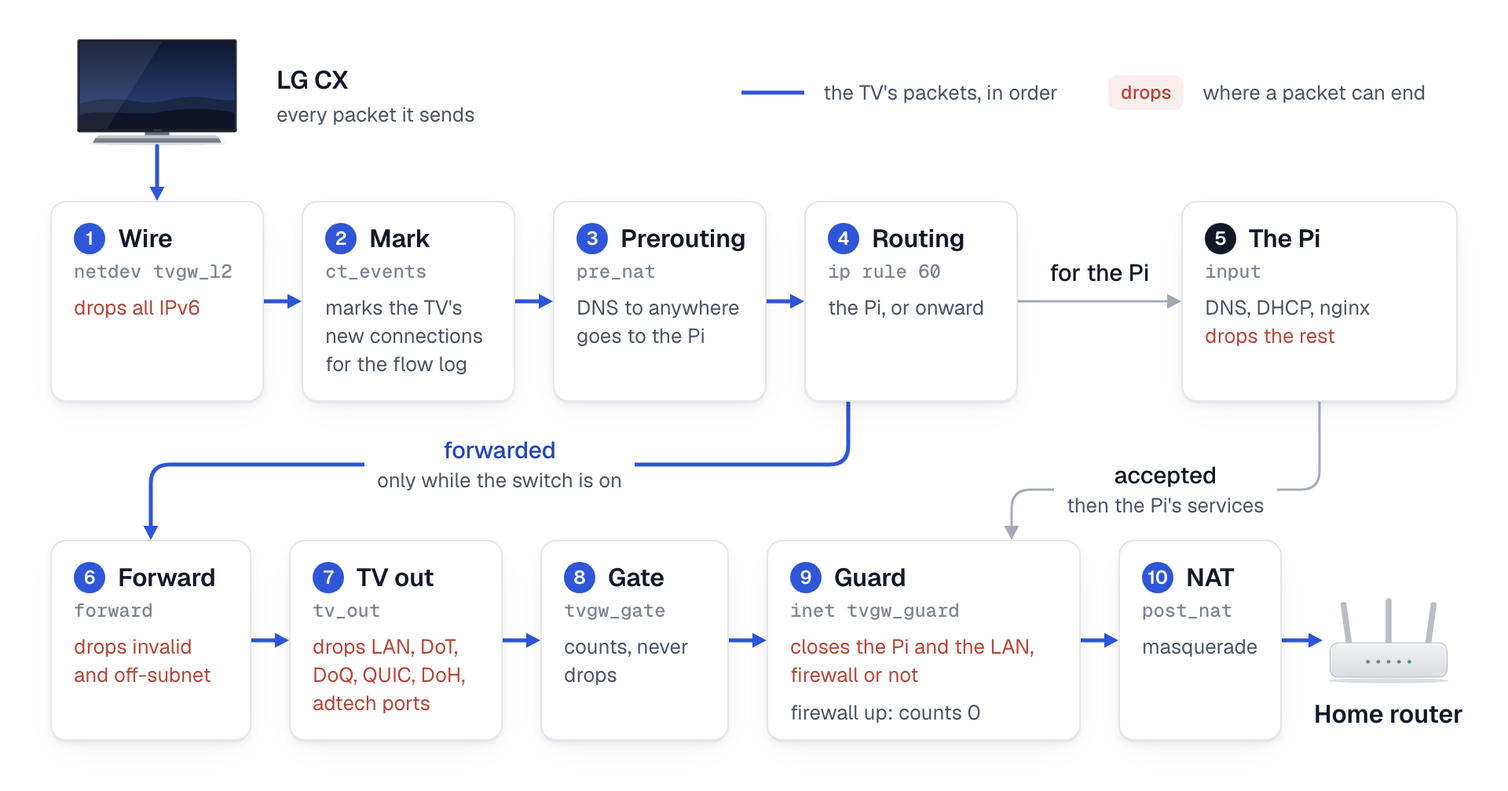
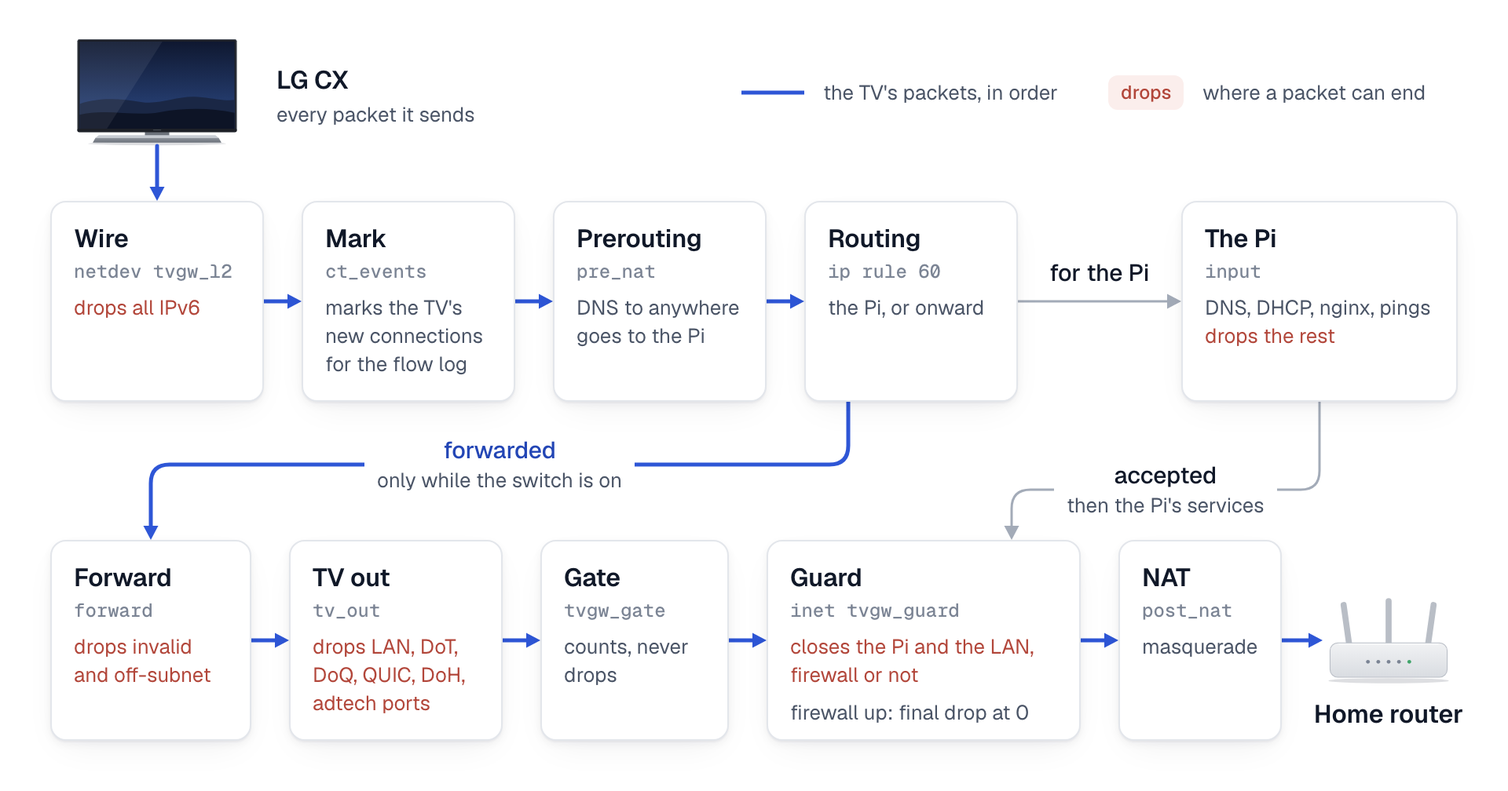
Figures: the queue waits for the second model, the guard's final drop, and the review's minors
Figure 7 and its alt text: a queued block meets the vetting, the gates and the
second model at its turn; the second model is never asked before. The untested
path says the no-baseline case ends at the trial's end, not after 14 days.
Figure 4: the Pi accepts pings, only the guard's final drop stays at 0 while
the firewall is loaded, and the stages lose their numbers so the page's list
can number chains the figure leaves out. Figure 6: the sampler runs inside
verify --record, and the store is back on the grid. Figure 17 names the
co-tenant services by the setting, not by a list. Figure 18's captions no
longer read as a complete list of verdicts; STYLE.md records the hour-strip
exception to the grid. data-model.md: judge_shadow joins auto_rules on rule
and added_t, and auto_rules is keyed by rule alone.

diff --git a/docs/diagrams/fig-4-packet-path.html b/docs/diagrams/fig-4-packet-path.html
@@ -727,36 +727,36 @@
 
     <!-- Row 1: to the routing decision (cards y 128-256) -->
     <div class="card stage-card" data-id="l2" style="left:32px;top:128px;width:136px;height:128px">
-      <div class="title"><span class="step accent">1</span>Wire</div><div class="id">netdev tvgw_l2</div><div class="drop">drops all IPv6</div>
+      <div class="title">Wire</div><div class="id">netdev tvgw_l2</div><div class="drop">drops all IPv6</div>
     </div>
     <div class="card stage-card" data-id="mark" style="left:192px;top:128px;width:136px;height:128px">
-      <div class="title"><span class="step accent">2</span>Mark</div><div class="id">ct_events</div><div class="pass">marks the TV's new connections for the flow log</div>
+      <div class="title">Mark</div><div class="id">ct_events</div><div class="pass">marks the TV's new connections for the flow log</div>
     </div>
     <div class="card stage-card" data-id="pre" style="left:352px;top:128px;width:136px;height:128px">
-      <div class="title"><span class="step accent">3</span>Prerouting</div><div class="id">pre_nat</div><div class="pass">DNS to anywhere goes to the Pi</div>
+      <div class="title">Prerouting</div><div class="id">pre_nat</div><div class="pass">DNS to anywhere goes to the Pi</div>
     </div>
     <div class="card stage-card" data-id="route" style="left:512px;top:128px;width:136px;height:128px">
-      <div class="title"><span class="step accent">4</span>Routing</div><div class="id">ip rule 60</div><div class="pass">the Pi, or onward</div>
+      <div class="title">Routing</div><div class="id">ip rule 60</div><div class="pass">the Pi, or onward</div>
     </div>
     <div class="card stage-card" data-id="input" style="left:752px;top:128px;width:176px;height:128px">
-      <div class="title"><span class="step">5</span>The Pi</div><div class="id">input</div><div class="pass">DNS, DHCP, nginx</div><div class="drop" style="margin-top:0">drops the rest</div>
+      <div class="title">The Pi</div><div class="id">input</div><div class="pass">DNS, DHCP, nginx, pings</div><div class="drop" style="margin-top:0">drops the rest</div>
     </div>
 
     <!-- Row 2: forwarded (cards y 344-472) -->
     <div class="card stage-card" data-id="fwd" style="left:32px;top:344px;width:128px;height:128px">
-      <div class="title"><span class="step accent">6</span>Forward</div><div class="id">forward</div><div class="drop">drops invalid and off-subnet</div>
+      <div class="title">Forward</div><div class="id">forward</div><div class="drop">drops invalid and off-subnet</div>
     </div>
     <div class="card stage-card" data-id="out" style="left:184px;top:344px;width:136px;height:128px">
-      <div class="title"><span class="step accent">7</span>TV out</div><div class="id">tv_out</div><div class="drop">drops LAN, DoT, DoQ, QUIC, DoH, adtech ports</div>
+      <div class="title">TV out</div><div class="id">tv_out</div><div class="drop">drops LAN, DoT, DoQ, QUIC, DoH, adtech ports</div>
     </div>
     <div class="card stage-card" data-id="gate" style="left:344px;top:344px;width:120px;height:128px">
-      <div class="title"><span class="step accent">8</span>Gate</div><div class="id">tvgw_gate</div><div class="pass">counts, never drops</div>
+      <div class="title">Gate</div><div class="id">tvgw_gate</div><div class="pass">counts, never drops</div>
     </div>
     <div class="card stage-card" data-id="guard" style="left:488px;top:344px;width:200px;height:128px">
-      <div class="title"><span class="step accent">9</span>Guard</div><div class="id">inet tvgw_guard</div><div class="drop">closes the Pi and the LAN, firewall or not</div><div class="pass">firewall up: counts 0</div>
+      <div class="title">Guard</div><div class="id">inet tvgw_guard</div><div class="drop">closes the Pi and the LAN, firewall or not</div><div class="pass">firewall up: final drop at 0</div>
     </div>
     <div class="card stage-card" data-id="nat" style="left:712px;top:344px;width:104px;height:128px">
-      <div class="title"><span class="step accent">10</span>NAT</div><div class="id">post_nat</div><div class="pass">masquerade</div>
+      <div class="title">NAT</div><div class="id">post_nat</div><div class="pass">masquerade</div>
     </div>
     <svg class="art" data-id="router" viewBox="0 0 160 104" style="left:840px;top:380px;width:88px;height:57px"><use href="#art-router"/></svg>
     <div class="art-caption" style="left:812px;top:444px;width:144px"><div class="title">Home router</div></div>
@@ -774,7 +774,7 @@
     <div class="wire accent" data-from="guard@r" data-to="nat@l"></div>
     <div class="wire accent" data-from="nat@r" data-to="@842,408"></div>
   </div>
-  <figcaption class="fig-caption"><b>The packet path.</b> A packet from the TV meets the firewall in this order. Its new connections are marked for the flow log and DNS is redirected before routing; a packet for anywhere else is forwarded only while the switch is on, and each stage that can end it says what it drops. The guard runs after the firewall on both paths and keeps the Pi and the home LAN closed if the firewall is gone; it refuses nothing the firewall lets through, so while the firewall is loaded its counters on these paths stay at 0.</figcaption>
+  <figcaption class="fig-caption"><b>The packet path.</b> A packet from the TV meets the firewall in this order. Its new connections are marked for the flow log and DNS is redirected before routing; a packet for anywhere else is forwarded only while the switch is on, and each stage that can end it says what it drops. The guard runs after the firewall on both paths and keeps the Pi and the home LAN closed if the firewall is gone; it refuses nothing the firewall lets through, so while the firewall is loaded its final drop stays at 0.</figcaption>
 </figure>
 <!-- /figure -->
 <!-- inline:wires.js -->

diff --git a/docs/diagrams/fig-6-capture-to-store.html b/docs/diagrams/fig-6-capture-to-store.html
@@ -733,7 +733,7 @@
       <div class="title" style="margin-top:12px">tvgw ingest</div>
       <div class="sub">every hour, one source at a time</div>
     </div>
-    <div class="card stack obs" data-id="store" style="left:808px;top:292px;width:120px;height:80px">
+    <div class="card stack obs" data-id="store" style="left:808px;top:296px;width:120px;height:80px">
       <div class="head"><div class="glyph"><svg class="i"><use href="#i-database"/></svg></div><div class="title">Store</div></div>
       <div class="id" style="margin-top:6px">tvgw.db</div>
     </div>
@@ -742,10 +742,10 @@
       <div class="title" style="margin-top:8px">Verifier</div>
       <div class="id" style="margin-top:6px">every 10 min</div>
     </div>
-    <div class="card stack gate" data-id="sampler" style="left:808px;top:496px;width:120px;height:104px">
+    <div class="card stack gate" data-id="sampler" style="left:808px;top:472px;width:120px;height:128px">
       <div class="head"><div class="glyph"><svg class="i"><use href="#i-timer"/></svg></div></div>
       <div class="title" style="margin-top:8px">Sampler</div>
-      <div class="id" style="margin-top:6px">every 10 min</div>
+      <div class="id" style="margin-top:6px">in verify<br>--record</div>
     </div>
 
     <div class="wire accent" data-from="tv@r" data-to="r1@l" data-mid="184" data-label-seg="2" data-label-at="above">frames</div>
@@ -765,7 +765,7 @@
     <div class="wire strong" data-from="verify@b" data-to="store@t" data-align="from" data-label-at="on">verdict<span class="sub">counters</span></div>
     <div class="wire strong" data-from="sampler@t" data-to="store@b" data-align="from" data-label-at="on"><span class="mono">gw_samples</span></div>
   </div>
-  <figcaption class="fig-caption"><b>From capture to store.</b> Six recorders each write down part of what the TV does, the gateway's shell scripts add a line to the change spool for each apply, link event and deploy, and <code>tvgw ingest</code> reads all of them into the store every hour. Only <code>tvgw verify --record</code> writes to the store itself, every 10 minutes: the firewall's verdict and counters, and a sample of the gateway's own counters.</figcaption>
+  <figcaption class="fig-caption"><b>From capture to store.</b> Six recorders each write down part of what the TV does, the gateway's shell scripts add a line to the change spool for each apply, link event and deploy, and <code>tvgw ingest</code> reads all of them into the store every hour. Of these, only <code>tvgw verify --record</code> writes to the store itself, every 10 minutes: the firewall's verdict and counters, and a sample of the gateway's own counters.</figcaption>
 </figure>
 <!-- /figure -->
 <!-- inline:wires.js -->

diff --git a/docs/diagrams/fig-7-rule-life.html b/docs/diagrams/fig-7-rule-life.html
@@ -736,11 +736,11 @@
 
     <div class="wire strong" data-from="start@r" data-to="prob@l" data-label-at="above">applied</div>
     <div class="wire strong" data-from="start@b" data-to="queued@l" data-label-at="right">a trial runs</div>
-    <div class="wire strong" data-from="queued@t" data-to="prob@l:16" data-label-at="right" data-label-seg="0">its turn<span class="sub">gates again</span></div>
+    <div class="wire strong" data-from="queued@t" data-to="prob@l:16" data-label-at="right" data-label-seg="0">its turn<span class="sub">gates, then the second model</span></div>
     <div class="wire strong" data-from="prob@t:-48" data-to="prob@t:48" data-via="344,96 440,96" data-label-at="above" data-label-seg="1">NODATA<span class="sub">a day more, up to 14 days</span></div>
     <div class="wire strong" data-from="prob@r" data-to="passed@l" data-mid="584" data-label-seg="2" data-label-at="above">2 demand hours<span class="sub">each side, streaming held</span></div>
     <div class="wire strong" data-from="prob@r" data-to="rev@l" data-mid="584" data-label-seg="2" data-label-at="below">taken out<span class="sub">2 low demand hours running,<br>a red line, the canary,<br>the owner</span></div>
-    <div class="wire strong" data-from="prob@b" data-to="untested@t" data-label-at="right">14 days without<span class="sub">the demand hours,<br>or no baseline before it</span></div>
+    <div class="wire strong" data-from="prob@b" data-to="untested@t" data-label-at="right">14 days without<span class="sub">the demand hours, or at<br>the trial's end with no<br>baseline before it</span></div>
     <div class="wire strong" data-from="untested@r" data-to="rev@b" data-label-at="below">taken out<span class="sub">harm, or the owner</span></div>
     <div class="wire strong" data-from="passed@r:0" data-to="rev@r:0" data-via="952,76 952,236" data-label-at="left" data-end="arrow">owner</div>
 

diff --git a/docs/diagrams/fig-18-trial-confounders.html b/docs/diagrams/fig-18-trial-confounders.html
@@ -775,7 +775,7 @@
     <div class="tl-tick" style="left:728px;top:268px">22:00</div>
     <div class="tl-tick" style="left:920px;top:268px">04:00</div>
   </div>
-  <figcaption class="fig-caption"><b>One trial under confounders.</b> The ledger marks the hours a deploy, an AdGuard restart or a PIA reconnect touched as confounded, while a list refresh, class B, leaves its hour clean; judge v2 counts only the clean demand hours and records its verdict in <code>judge_shadow</code>, while the shipped judge still decides and the owner can undo the rule at any time.</figcaption>
+  <figcaption class="fig-caption"><b>One trial under confounders.</b> The ledger marks the hours a deploy, an AdGuard restart or a PIA reconnect touched as confounded, while a list refresh, class B, leaves its hour clean; judge v2 counts only the clean demand hours and records its verdict in <code>judge_shadow</code> (NODATA here; suspended, reverted or passed in other trials), while the shipped judge still decides and the owner can undo the rule at any time.</figcaption>
 </figure>
 <!-- /figure -->
 <!-- inline:wires.js -->

diff --git a/docs/diagrams/fig-17-two-walls.html b/docs/diagrams/fig-17-two-walls.html
@@ -742,7 +742,7 @@
         <div class="glyph" style="background:var(--surface);color:var(--gate-ink)"><svg class="i"><use href="#i-shield-check"/></svg></div>
         <div class="body"><div class="title">Wall 2</div><div class="id" style="margin-top:0">IPAddressDeny=TV_NET</div></div>
       </div>
-      <div class="body" style="padding:12px 16px"><div class="title">Other services</div><div class="sub" style="margin-top:0">Samba, xrdp, AirPlay, avahi, sshd, JupyterHub</div></div>
+      <div class="body" style="padding:12px 16px"><div class="title">Other services</div><div class="sub" style="margin-top:0">the services CO_TENANT_UNITS names</div></div>
     </div>
 
     <svg class="art" data-id="router" viewBox="0 0 160 104" style="left:432px;top:600px;width:88px;height:57px"><use href="#art-router"/></svg>

diff --git a/docs/analyst-and-autonomy.md b/docs/analyst-and-autonomy.md
@@ -233,7 +233,7 @@ The judge's structure is one loop over the watched rules with one call of `autob
 
 <picture>
   <source media="(prefers-color-scheme: dark)" srcset="diagrams/fig-7-rule-life.dark.png">
-  <img alt="A block both models agree on is applied on probation at once, or waits in auto_queue while another rule is on trial and starts on probation at its turn, after the gates run again. On probation, NODATA extends the trial a day at a time up to 14 days; with 2 demand hours on each side of the block and streaming held it passes; it is taken out by 2 low demand hours running, a red line, the canary or the owner; after 14 days without the demand hours, or with no baseline before it, it becomes untested, in place and listed daily, which harm or the owner can still take out. A passed rule can still be taken out by the owner. A timeline below shows the four watches: the canary for 10 minutes, at once or armed until the next hour the TV is awake with an app in front; the hourly judge for a day, extended a day at a time to 14; judge v2, which counts clean demand hours, writes judge_shadow and decides nothing; and the owner at any time." src="diagrams/fig-7-rule-life.light.png" width="960">
+  <img alt="A block that clears the gates goes on probation once the second model agrees, or, while another rule is on trial, waits in auto_queue and at its turn runs the vetting, the gates and the second model before it starts on probation. On probation, NODATA extends the trial a day at a time up to 14 days; with 2 demand hours on each side of the block and streaming held it passes; it is taken out by 2 low demand hours running, a red line, the canary or the owner; after 14 days without the demand hours, or at the trial's end with no baseline before it, it becomes untested, in place and listed daily, which harm or the owner can still take out. A passed rule can still be taken out by the owner. A timeline below shows the four watches: the canary for 10 minutes, at once or armed until the next hour the TV is awake with an app in front; the hourly judge for a day, extended a day at a time to 14; judge v2, which counts clean demand hours, writes judge_shadow and decides nothing; and the owner at any time." src="diagrams/fig-7-rule-life.light.png" width="960">
 </picture>
 
 *One rule is on trial at a time and passes only on viewing it did not harm; without viewing it stays untested, three watches can take it out, and judge v2 only records.*
@@ -300,7 +300,7 @@ Judging a rule excuses the rule's own `machine_rule_add` and an AdGuard restart 
   <img alt="One 24-hour trial, from 04:00 to 04:00, as the hour classifier sees it: most hours are off, three have no demand (the launcher, an HDMI input), four are clean demand hours and four are confounded. The ledger above the hours marks a deploy at 08:05, an AdGuard restart at 19:55 that confounds both hours it touches, a list refresh at 21:20 that is class B and leaves its hour clean, and a PIA reconnect at 22:10. Judge v2 counts only the four clean demand hours and writes judge_shadow every hour; with 4 of the 6 it needs its verdict at the end is NODATA, where 6 would be passed and two low demand hours running with one confounded would be suspended. Above it the shipped judge still decides on all 8 demand hours, and above both the owner can undo the rule at any time." src="diagrams/fig-18-trial-confounders.light.png" width="960">
 </picture>
 
-*The ledger marks the hours a class-A change touched, judge v2 counts only the clean demand hours and records NODATA, suspended or passed, and the shipped judge still decides.*
+*The ledger marks the hours a class-A change touched, judge v2 counts only the clean demand hours and records its verdict (NODATA here; suspended, reverted or passed in other trials), and the shipped judge still decides.*
 
 ## The TV's state and the 26-hour probe
 

diff --git a/docs/architecture.md b/docs/architecture.md
@@ -44,7 +44,7 @@ The `output` chain also stops the Pi's own broadcast and multicast chatter into 
 
 <picture>
   <source media="(prefers-color-scheme: dark)" srcset="diagrams/fig-4-packet-path.dark.png">
-  <img alt="A packet from the TV meets ten stages in order: the wire table drops IPv6; ct_events marks the TV's new connections for the flow log and drops nothing; prerouting sends DNS for anywhere to the Pi; routing chooses the Pi or onward. For the Pi, the input chain allows DNS, DHCP and nginx and drops the rest, and what it accepts passes the guard on its way to the Pi's services. Onward, only while the forwarding switch is on, the forward chain drops invalid and off-subnet packets, tv_out drops the home LAN, DoT, DoQ, QUIC, known DoH and LG's ad-tech ports, the gate counts, the guard keeps the Pi and the home LAN closed whether or not the firewall is loaded and counts 0 while it is, and post_nat masquerades the packet out to the home router." src="diagrams/fig-4-packet-path.light.png" width="960">
+  <img alt="A packet from the TV meets these stages in order: the wire table drops IPv6; ct_events marks the TV's new connections for the flow log and drops nothing; prerouting sends DNS for anywhere to the Pi; routing chooses the Pi or onward. For the Pi, the input chain allows DNS, DHCP, nginx and pings and drops the rest, and what it accepts passes the guard on its way to the Pi's services. Onward, only while the forwarding switch is on, the forward chain drops invalid and off-subnet packets, tv_out drops the home LAN, DoT, DoQ, QUIC, known DoH and LG's ad-tech ports, the gate counts, the guard keeps the Pi and the home LAN closed whether or not the firewall is loaded and its last drop counts 0 while it is, and post_nat masquerades the packet out to the home router." src="diagrams/fig-4-packet-path.light.png" width="960">
 </picture>
 
 *New connections are marked and DNS is rewritten before routing, nothing is forwarded until the forwarding switch is on, the gate counts but never drops, and the guard after the firewall refuses nothing the firewall lets through.*
@@ -63,7 +63,7 @@ Linux owns an address for the whole host, not for one interface, so binding a se
 
 <picture>
   <source media="(prefers-color-scheme: dark)" srcset="diagrams/fig-17-two-walls.dark.png">
-  <img alt="Two walls stand between the TV and the Pi. Wall 1 is the guard, inet tvgw_guard, loaded before the network and never unloaded: its input chain lets DHCP, DNS, nginx's 80 and 443 and pings reach the gateway address and drops the rest of the Pi, its forward chain lets nothing through to the home LAN, and its output chain lets only root open the TV's API. Behind it, dnsmasq runs without CAP_NET_ADMIN and CAP_NET_RAW and nginx in a sandbox; every other service (Samba, xrdp, AirPlay, avahi, sshd, JupyterHub) carries wall 2, IPAddressDeny for the TV subnet, so any other port is dropped by both walls." src="diagrams/fig-17-two-walls.light.png" width="960">
+  <img alt="Two walls stand between the TV and the Pi. Wall 1 is the guard, inet tvgw_guard, loaded before the network and never unloaded: its input chain lets DHCP, DNS, nginx's 80 and 443 and pings reach the gateway address and drops the rest of the Pi, its forward chain lets nothing through to the home LAN, and its output chain lets only root open the TV's API. Behind it, dnsmasq runs without CAP_NET_ADMIN and CAP_NET_RAW and nginx in a sandbox; each service CO_TENANT_UNITS names carries wall 2, IPAddressDeny for the TV subnet, so a port of one of those services is dropped by both walls." src="diagrams/fig-17-two-walls.light.png" width="960">
 </picture>
 
 *The TV reaches the gateway's DHCP, DNS and URL filter and nothing else on the Pi, whatever the firewall holds.*

diff --git a/docs/data-model.md b/docs/data-model.md
@@ -469,7 +469,7 @@ No table in the store declares a foreign key, so SQLite enforces none. Every rel
 
 *The context joins are by time as much as by value: the gate's samples, the TV's power readings and its firmware readings each meet the other tables in a window.*
 
-The control and bookkeeping tables join less. `fw_counters` rows share their `t` with the `verify` row of the same run, except the two listings `tvgw-apply` takes either side of a reload, which `verify --record` stores once each under their own times ([`fw_counters`](#fw_counters)). `queries.FW_LINES`, a constant in the code and not a table, maps each comment prefix to the label the brief prints, so `fw_counters.rule` matches it by prefix; renaming a comment in `tvgw-apply` drops its line from the brief ([design decision 13](design-decisions.md#13-counters-not-logs-prove-the-firewall-held)). `auto_rules.name`, `judgments.name`, `decisions.name` and `auto_queue.name` are names the analyst saw, the same names `hosts` holds; `auto_rules.trial_id` joins `decisions.id` and `decisions.trial_id`. <!-- (fin-figures) -->`judge_shadow` keys each trial by `rule` and `added_t`, as `auto_rules` does; a `changes` row of a `machine_rule_*` kind names its rule in `subject`, and its rows with `source` `sampler` come from pairs of `gw_samples` rows; `queries.acr_port` reads the `adport` samples of a window beside the increase of the `LG adtech port` counter in `fw_counters`. `pcaps_done`, `ingest_state`, `ingest_runs` and `meta` join nothing.
+The control and bookkeeping tables join less. `fw_counters` rows share their `t` with the `verify` row of the same run, except the two listings `tvgw-apply` takes either side of a reload, which `verify --record` stores once each under their own times ([`fw_counters`](#fw_counters)). `queries.FW_LINES`, a constant in the code and not a table, maps each comment prefix to the label the brief prints, so `fw_counters.rule` matches it by prefix; renaming a comment in `tvgw-apply` drops its line from the brief ([design decision 13](design-decisions.md#13-counters-not-logs-prove-the-firewall-held)). `auto_rules.name`, `judgments.name`, `decisions.name` and `auto_queue.name` are names the analyst saw, the same names `hosts` holds; `auto_rules.trial_id` joins `decisions.id` and `decisions.trial_id`. <!-- (fin-figures) -->`judge_shadow` keys each trial by `rule` and `added_t` and joins `auto_rules` on both; a `changes` row of a `machine_rule_*` kind names its rule in `subject`, and its rows with `source` `sampler` come from pairs of `gw_samples` rows; `queries.acr_port` reads the `adport` samples of a window beside the increase of the `LG adtech port` counter in `fw_counters`. `pcaps_done`, `ingest_state`, `ingest_runs` and `meta` join nothing.
 
 <picture>
   <source media="(prefers-color-scheme: dark)" srcset="diagrams/fig-10-store-records.dark.png">

diff --git a/CHANGELOG.md b/CHANGELOG.md
@@ -6,7 +6,7 @@ Changes since 0.1.0 (2026-10-26 onward).
 
 ### Figures: the current truth, and two new ones (2026-11-01)
 
-- **Brought to the code.** The packet path (figure 4) gains the `ct_events` mark and the guard after the firewall on both paths, and `tv_out` names the adtech port wall; the forwarding switch moves onto the forwarded wire to keep twelve elements. Capture to store (6) gains the change spool and the sampler. A rule's life (7) gains the queue, NODATA, the no-baseline path to `untested` and judge v2 as a fourth watch that only records; a rule passes on 2 demand hours on each side with streaming held, as `autoblock.judge` does, not on clean hours. The gateway's own record (10) gains `decisions`, `auto_queue`, `changes`, `gw_samples`, `judge_shadow` and `adport` with the keys the code writes and reads. Fail closed (12) draws every state inside the guard. The modules (16) gain `guard`, `flowlog`, `forget`, `minimize` and the sampler inside `verify`.
+- **Brought to the code.** The packet path (figure 4) gains the `ct_events` mark and the guard after the firewall on both paths, and `tv_out` names the adtech port wall; the forwarding switch moves onto the forwarded wire to keep twelve elements, and the stages lose their numbers, since the list on the page numbers chains the figure leaves out. Capture to store (6) gains the change spool and the sampler. A rule's life (7) gains the queue, NODATA, the no-baseline path to `untested` and judge v2 as a fourth watch that only records; a rule passes on 2 demand hours on each side with streaming held, as `autoblock.judge` does, not on clean hours. The gateway's own record (10) gains `decisions`, `auto_queue`, `changes`, `gw_samples`, `judge_shadow` and `adport` with the keys the code writes and reads. Fail closed (12) draws every state inside the guard. The modules (16) gain `guard`, `flowlog`, `forget`, `minimize` and the sampler inside `verify`.
 - **New.** The two walls (17), in docs/architecture.md and deploy/nftables/README.md: the TV reaches DHCP, DNS and the URL filter and nothing else on the Pi, whatever the firewall holds. One trial under confounders (18), in docs/analyst-and-autonomy.md: the hours the ledger marks, what judge v2 counts and records, and the shipped judge that still decides.
 - **Kept honest.** `tests/unit/test_figures.py` fails on a stale inlined copy, a missing render, a figure no page shows or an embed that points nowhere; `build.py` names its encoding.
 

diff --git a/deploy/nftables/README.md b/deploy/nftables/README.md
@@ -228,7 +228,7 @@ The guard does not stop a process with root or `CAP_NET_ADMIN` from deleting it;
 
 <picture>
   <source media="(prefers-color-scheme: dark)" srcset="../../docs/diagrams/fig-17-two-walls.dark.png">
-  <img alt="Two walls stand between the TV and the Pi. Wall 1 is the guard, inet tvgw_guard, loaded before the network and never unloaded: its input chain lets DHCP, DNS, nginx's 80 and 443 and pings reach the gateway address and drops the rest of the Pi, its forward chain lets nothing through to the home LAN, and its output chain lets only root open the TV's API. Behind it, dnsmasq runs without CAP_NET_ADMIN and CAP_NET_RAW and nginx in a sandbox; every other service (Samba, xrdp, AirPlay, avahi, sshd, JupyterHub) carries wall 2, IPAddressDeny for the TV subnet, so any other port is dropped by both walls." src="../../docs/diagrams/fig-17-two-walls.light.png" width="960">
+  <img alt="Two walls stand between the TV and the Pi. Wall 1 is the guard, inet tvgw_guard, loaded before the network and never unloaded: its input chain lets DHCP, DNS, nginx's 80 and 443 and pings reach the gateway address and drops the rest of the Pi, its forward chain lets nothing through to the home LAN, and its output chain lets only root open the TV's API. Behind it, dnsmasq runs without CAP_NET_ADMIN and CAP_NET_RAW and nginx in a sandbox; each service CO_TENANT_UNITS names carries wall 2, IPAddressDeny for the TV subnet, so a port of one of those services is dropped by both walls." src="../../docs/diagrams/fig-17-two-walls.light.png" width="960">
 </picture>
 
 *The TV reaches the gateway's DHCP, DNS and URL filter and nothing else on the Pi, whatever the firewall holds.*

diff --git a/docs/diagrams/STYLE.md b/docs/diagrams/STYLE.md
@@ -67,7 +67,8 @@ Look at both PNGs before embedding: no overlaps, no clipped text, wires landing 
 2. **Label every wire with what moves** (a 15 px main line, an optional 13 px second line). An
    unlabelled wire means "related somehow".
 3. **Canvas 960 px wide**, the width GitHub shows it at, so labels stay 15 to 16 px on screen. Every
-   coordinate on the 8 px grid.
+   coordinate on the 8 px grid, except the markers and counts of an hour strip, which sit at their
+   clock time.
 4. **Colour carries meaning, and only one colour is loud.** Cobalt (`--accent`) marks the path the
    figure is about; reads and records are grey; brick (`--stop`) is only for what is refused. Roles
    tint only a card's glyph tile.
